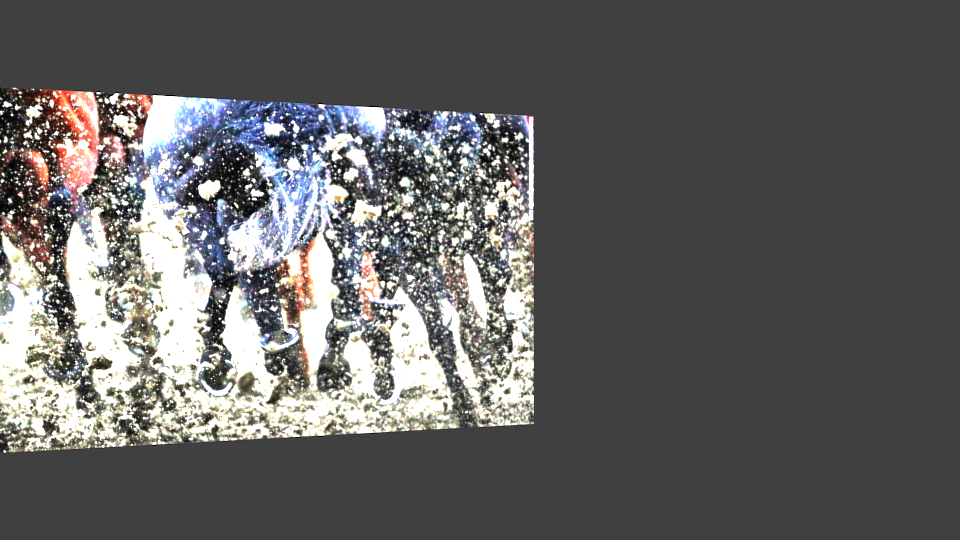
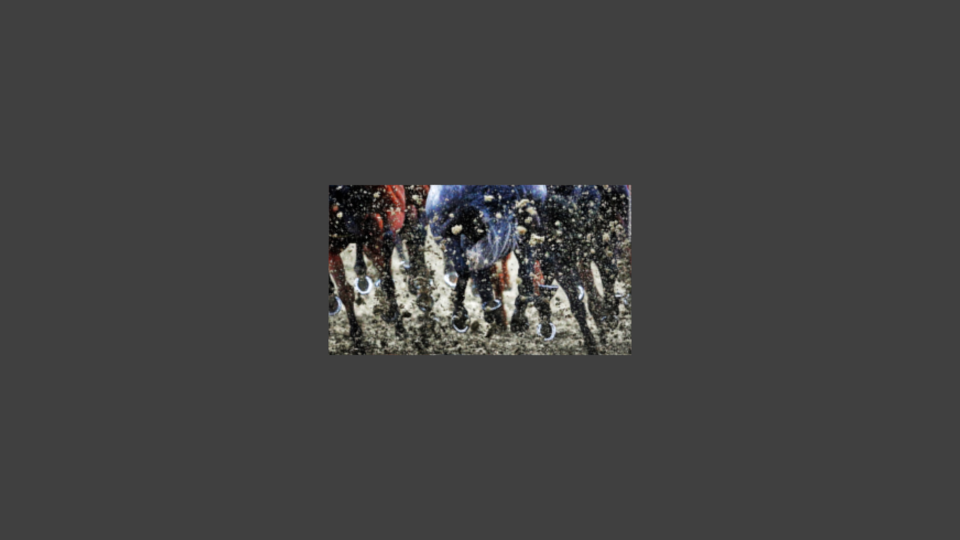
added code for creating bezier curves

diff --git a/src/rendering/blenderScripts/prospecting.py b/src/rendering/blenderScripts/prospecting.py
@@ -11,7 +11,7 @@ import numpy as np
 #-------------
 objFilename = 'horses'
 objFileType = '.obj'
-objFileDir = '/home/ghimire/Desktop/sft_dl_3dc/data/3dObjs/'
+objFileDir = '/home/bokoo/Desktop/sft_dl_3dc/data/3dObjs/'
 objFilePath = objFileDir + objFilename + objFileType
 
 importedObj = bpy.ops.import_scene.obj(filepath=objFilePath)
@@ -105,18 +105,95 @@ bpy.context.scene.update()
 #-------------
 # 6 apply a modifier to the object
 #-------------
-# transform object to a predefined pose in the world space (0, 0, 0, 90, 0, 0)
-# select the object (right click on the object)
-# add a mesh: shift+a > curve > Bezier
+# transform object to a predefined pose in the world space (0, 0, 0, pi/2, 0, 0)
+my3dobj.location = Vector((0.0, 0.0, 0.0))
+my3dobj.rotation_euler = Vector((np.pi/2.0, 0.0, 0.0)) 
+
+
+
+coordinates = [
+    ((-1, 0, 0), (-0.7, 0, 0), (-1, 0.5521, 0)),
+    ((0, 1, 0), (-0.5521, 1, 0), (0, 0.7, 0))]
+#    ,
+#    ((0, 0, 0), (0, 0.3, 0), (-0.3, 0, 0))
+#]
+
+    
+def MakeCurveQuarter(objname, curvename, cList, origin=(0,0,0)):    
+    curvedata = bpy.data.curves.new(name=curvename, type='CURVE')    
+    curvedata.dimensions = '2D'    
+    
+    objectdata = bpy.data.objects.new(objname, curvedata)    
+    objectdata.location = origin
+    
+    bpy.context.scene.objects.link(objectdata)    
+    
+    polyline = curvedata.splines.new('BEZIER')    
+    polyline.bezier_points.add(len(cList)-1)    
+
+    for idx, (knot, h1, h2) in enumerate(cList):
+        point = polyline.bezier_points[idx]
+        point.co = knot
+        point.handle_left = h1
+        point.handle_right = h2
+        point.handle_left_type = 'FREE'
+        point.handle_right_type = 'FREE'
+
+    polyline.use_cyclic_u = False 
+
+MakeCurveQuarter("NameOfMyCurveObject", "NameOfMyCurve", coordinates)  
+
+# add a bezier curve to the context : shift+a > curve > Bezier
+# Curve Data:
+curveData = bpy.data.curves.new('myBCurve', type='CURVE')
+curveData.dimensions = '3D'
+curveData.resolution_u = 2
+# set its 4 coordinates ([top-left, top-right, bottom-left, bottom-right]) 
+# when viewdir is s.t. 'y' increases along it (units: centimeters)
+coords = [(8.0601, -0.742, 0)]#, (1.858, -19.89, 0.167)]#, (-164.67,-28.59,-0.265), (-37.064, 27.821, 0.2583)] 
+# make sure that nothing is selected in the 'path/curve deform' in curve shape
+curveData.use_radius = False 
+
+# map coords to spline
+polyline = curveData.splines.new('BEZIER')
+polyline.bezier_points.add(len(coords))
+for i, coord in enumerate(coords):
+    x,y,z = coord
+    polyline.bezier_points[i].co = (x, y, z)
+
+# create Object
+myBCurveObj = bpy.data.objects.new('myBCurve', curveData)
+
+# attach to scene and validate context
+scn = bpy.context.scene
+scn.objects.link(myBCurveObj)
+scn.objects.active = myBCurveObj
+myBCurveObj.select = True
+
 # change 'dimension' (in n-panel) of the added bezier curve
 #   x = 10 cm, y = 3.7141 cm, z = 0 cm
+#myBCurveObj.dimensions = Vector((10.0, 3.7141, 0))
+current_x, current_y, current_z =  myBCurveObj.dimensions
+myBCurveObj.dimensions = [10.0, 3.7141, current_z]
+
+
 # change the pose of the curve (0, 0, 0, 0, 90, -90)
-# make sure that nothing is selected in the 'path/curve deform' in curve shape
+myBCurveObj.location = Vector((0.0, 0.0, 0.0))
+myBCurveObj.rotation_euler = Vector((0, np.pi/2, -np.pi/2))
+
+
 # change the 'shape' of the curve from 3D to 2D
 # right-click select the curve, tab into edit mode, change curve vertices to...
 
 # select the object (right click on the object)
 # add a curve modifier
+# select the object (right click on the object)
+# add a curve modifier to the object
+ob = my3dobj
+ob.modifiers.new(name='mysubsurf', type='CURVE')
+#ob.modifiers["mysubsurf"].levels = 2
+bpy.ops.object.modifier_apply(apply_as='DATA', modifier="mysubsurf")
+
 # select 'BezierCurve' as 'object'
 # rotate the curve about x-axis
 
@@ -125,7 +202,7 @@ bpy.context.scene.update()
 #-------------
 # 7 save renders
 #-------------
-renderFilePath = '/home/ghimire/Desktop/sft_dl_3dc/data/training_defRenders/testRender.jpg'
+renderFilePath = '/home/bokoo/Desktop/sft_dl_3dc/data/training_defRenders/testRender.jpg'
 bpy.data.scenes["Scene"].render.filepath = renderFilePath
 bpy.ops.render.render( write_still=True )
 

diff --git a/src/rendering/blenderScripts/blenderExecfile.py b/src/rendering/blenderScripts/blenderExecfile.py
@@ -5,5 +5,5 @@ Created on Sun Sep  9 18:51:40 2018
 @author: ghimire
 """
 
-filename = "/home/ghimire/Desktop/sft_dl_3dc/src/rendering/blenderScripts/prospecting.py"
+filename = "/home/bokoo/Desktop/sft_dl_3dc/src/rendering/blenderScripts/prospecting.py"
 exec(open(filename).read())
